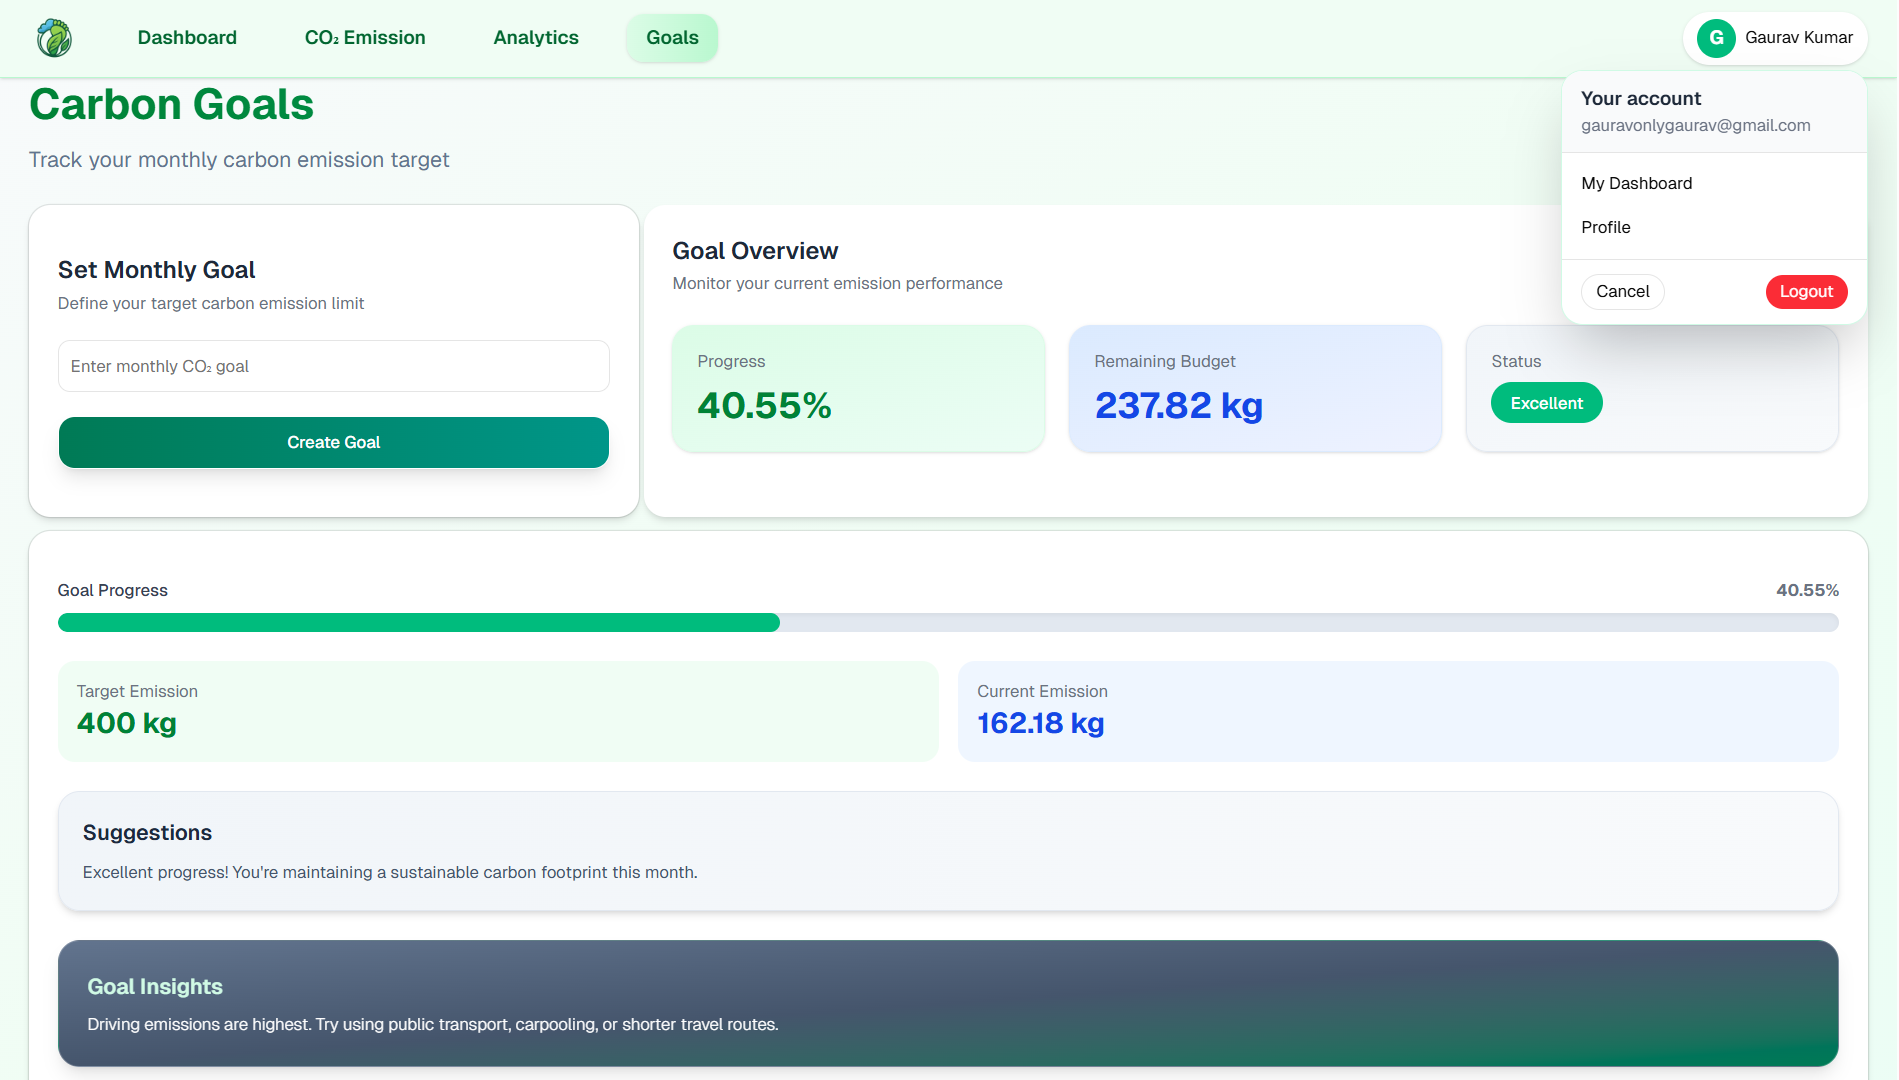
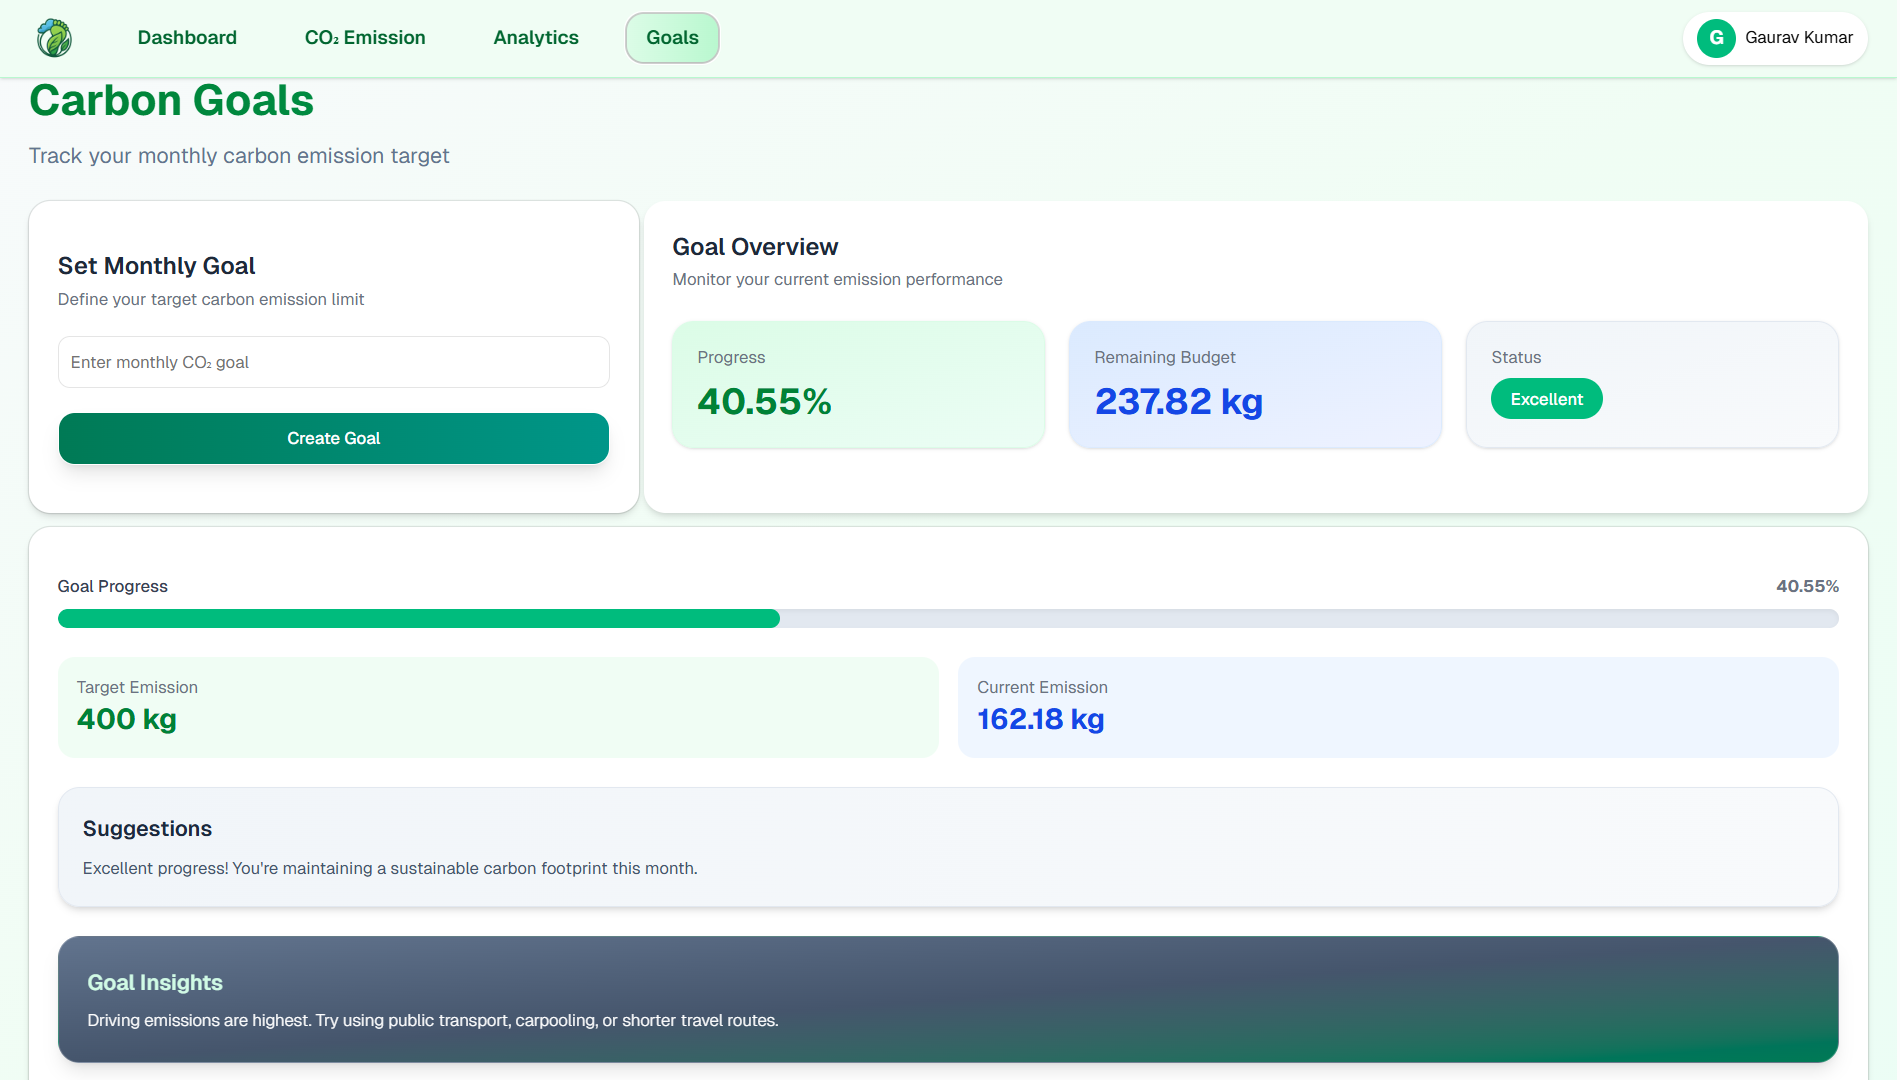
Readme changes

diff --git a/README.md b/README.md
@@ -66,11 +66,11 @@ Built using **React, TypeScript, Spring Boot, Spring Security, JWT, OAuth2, Dock
 ### Goal Tracking
 ![Goal Page](screenshots/Goals.PNG)
 
-### Profile View
+### Profile
 ![Profile Page](screenshots/Profile.PNG)
 
 ### Live Demo
-![Carbon Footprint Tracker Demo](screenshots/Carbon-Tracker-Demo.GIF)
+![Carbon Footprint Tracker Demo](screenshots/Demo.GIF)
 
 ## 🧠 System Architecture
 
@@ -126,22 +126,24 @@ API]-> [JWT Authentication Filter]-> [Business Logic]-> [MySQL Database]
 
 ### 1⃣ Clone Repository
 
-git clone https://github.com/gauravonlygaurav1/carbon-footprint-tracker
+git clone https://github.com/gauravonlygaurav1/carbon-footprint-tracker  
 cd carbon-footprint-tracker
 
 ### 2⃣ Backend Setup
 
+```bash
 cd carbon_tracker_backend
-mvn spring-boot:run
-
+mvn spring-boot:run  
+```
 Configure DB in application-dev.yml
 
 ### 3⃣ Frontend Setup
 
+```bash
 cd carbon_tracker_frontend
 npm install
-npm run dev
-
+npm run dev  
+```
 Frontend runs on: http://localhost:5173
 
 ## 🌐 Live Demo
